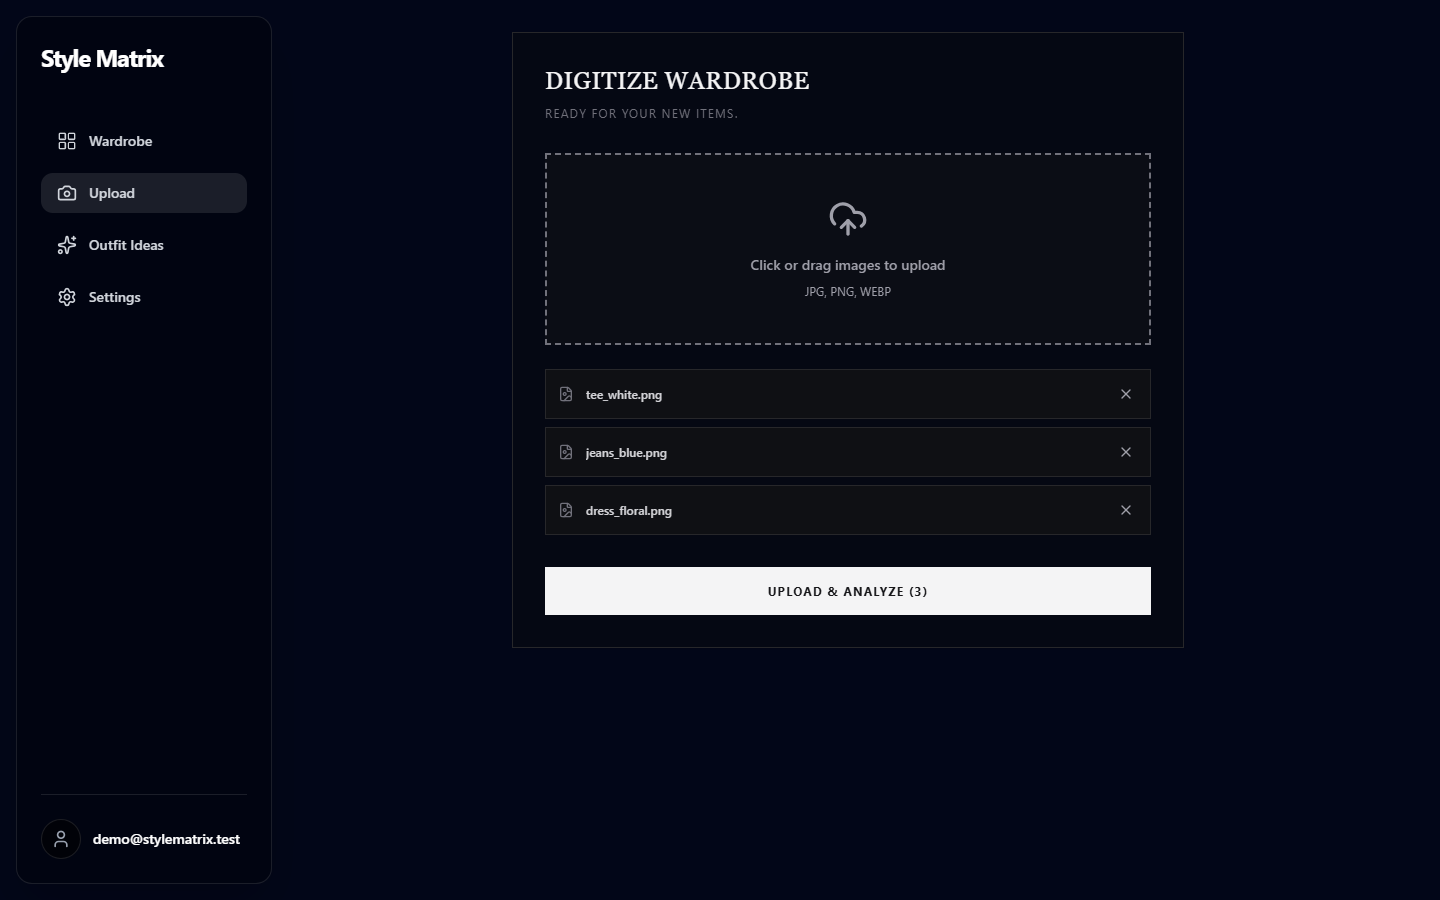
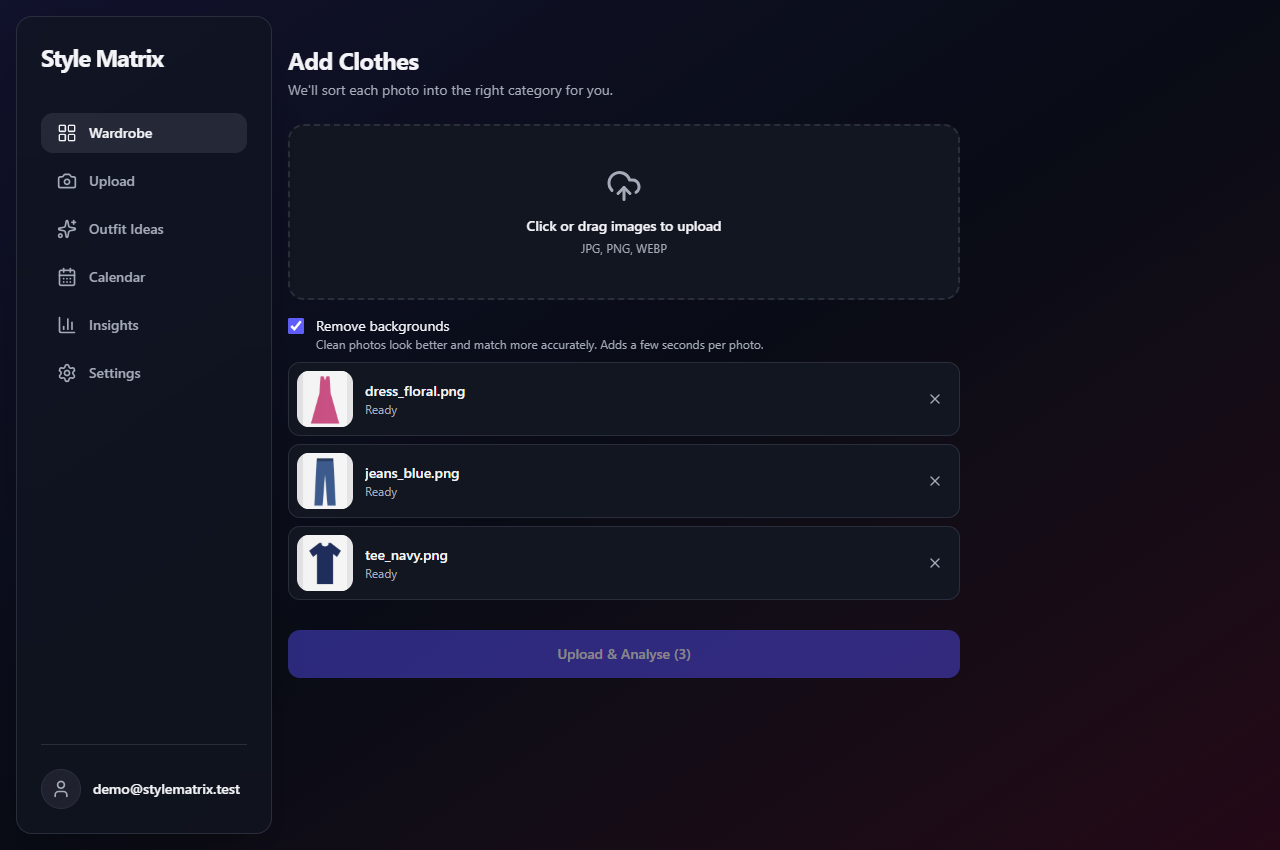
Update the README and screenshots for the new features

diff --git a/README.md b/README.md
@@ -25,11 +25,18 @@
 
 | Feature | What it does |
 |---|---|
-| **Digital wardrobe** | Upload photos in batches, by click or drag and drop. |
-| **Automatic categories** | A ResNet50 classifier sorts each item into one of 50 clothing categories. |
+| **Digital wardrobe** | Upload photos in batches, by click or drag and drop, with a preview and progress for each one. Filter by type, and edit or delete items. |
+| **Background removal** | Removes the background from each photo on upload. It can be switched off, and the original photo is used if it fails. |
+| **Automatic categories** | A ResNet50 classifier sorts clothes into 50 categories, and FashionCLIP picks out shoes and accessories. Any wrong category can be corrected. |
 | **Outfit suggestions** | Describe an occasion or style, and get ranked outfits made from your own clothes. |
+| **Complete outfits** | Adds shoes and an accessory when you own them, and an outer layer when the prompt or weather calls for one. |
 | **Style compatibility** | A trained model scores how well a top and a bottom go together. |
-| **Laundry tracking** | "Wear Today" moves items to *In the Wash* and leaves them out of suggestions for 5 days. |
+| **Weather-aware suggestions** | Uses your current weather from [Open-Meteo](https://open-meteo.com), only after you ask it to. |
+| **Personalised results** | Likes and dislikes change later rankings, and your style profile can influence results. It can be switched off. |
+| **Laundry tracking** | "Wear today" moves items to *In the Wash* and leaves them out of suggestions for 5 days. You can undo it or mark items as washed sooner. |
+| **Outfit calendar** | See what you wore on each day, and keep outfits you like as saved outfits. |
+| **Wardrobe insights** | See your most and least worn clothes, what you never wear, and cost per wear. |
+| **Works on phones** | The sidebar becomes a bottom navigation bar on small screens. |
 | **Accounts and profiles** | Email login and profile settings through Supabase. |
 
 ## Screenshots
@@ -42,13 +49,21 @@ The screenshots use simple drawn sample images, not real clothing photos.
 
 ### Wardrobe
 
-Items appear with their predicted category. The dropdown switches between *Available* and *In the Wash*.
+Items appear with their predicted category. Tabs switch between *Available* and *In the Wash*, and the buttons filter by type.
 
 ![Wardrobe page](docs/images/wardrobe.png)
 
 ### Upload
 
 ![Upload page](docs/images/upload.png)
+
+### Calendar
+
+![Outfit calendar page](docs/images/calendar.png)
+
+### Insights
+
+![Wardrobe insights page](docs/images/insights.png)
 
 ### Profile settings
 
@@ -111,7 +126,7 @@ flowchart LR
 
 ### Adding clothes
 
-The browser uploads photos directly to Supabase Storage, then sends their URLs to the backend. The backend only accepts URLs from the project's own public storage. If some images in a batch can't be read, the rest are still saved.
+The browser sends each photo to the backend to have its background removed, uploads the result to Supabase Storage, then sends its URL to the backend for analysis. The backend only accepts URLs from the project's own public storage. Photos are handled one at a time, so one bad photo doesn't stop the rest. Transparent images are placed on white before analysis, because that's closer to what the models were trained on.
 
 ```mermaid
 sequenceDiagram
@@ -123,6 +138,8 @@ sequenceDiagram
     participant DB as PostgreSQL
 
     User->>FE: Choose photos
+    FE->>API: POST /api/wardrobe/remove-background
+    API-->>FE: Photo without its background
     FE->>S: Upload each photo
     S-->>FE: Public URLs
     FE->>API: POST /api/wardrobe/add-clothing
@@ -139,7 +156,7 @@ sequenceDiagram
 
 ```mermaid
 flowchart TD
-    A[Text prompt] --> B[FashionCLIP turns the<br/>prompt into an embedding]
+    A[Text prompt] --> B[FashionCLIP turns the prompt into an embedding,<br/>leaning 25% towards the weather and profile]
     B --> C{Asks for a dress,<br/>jumpsuit or similar?}
     C -- Yes --> D[Search full-body items]
     C -- No --> E[Search tops and bottoms]
@@ -148,15 +165,21 @@ flowchart TD
     F --> G{Outfit type}
     G -- Top + bottom --> H[60% compatibility model<br/>40% prompt match]
     G -- Full body --> I[Prompt match]
-    H --> J[Return the 5 best outfits]
-    I --> J
+    H --> K[Adjust for past likes and dislikes]
+    I --> K
+    K --> L[Keep the 5 best outfits]
+    L --> J[Add the best shoes and accessory,<br/>and an outer layer if needed]
 ```
 
 Prompt match is the cosine similarity between the prompt and the item, scaled so that 0.4 or above counts as a full match. For a top and bottom pair, the two items' prompt matches are averaged.
 
+A reaction to the same outfit moves its score by 0.2. A new combination moves by up to 0.1, based on how its pieces were received in other outfits. The finishing pieces are added last, so they don't affect the ranking.
+
+An outer layer is added when the prompt suggests one, such as "winter" or "interview", when it's below 15°C, or when it's raining or snowing. The browser rounds your location to about 1 km before asking Open-Meteo for the weather, and your location isn't sent to the backend.
+
 ### Wear tracking
 
-"Wear Today" records today's date on each item. For the next 5 days, the item appears under *In the Wash* and isn't suggested. After that it returns to *Available* automatically.
+"Wear today" records the time on each item and adds the outfit to your calendar. For the next 5 days, the item appears under *In the Wash* and isn't suggested. After that it returns to *Available* automatically, or sooner if you mark it as washed. Undoing a wear restores the item's earlier date, unless it has been washed or worn again since.
 
 ## AI models
 
@@ -165,14 +188,22 @@ Prompt match is the cosine similarity between the prompt and the item, scaled so
 | **ResNet50** | Classify a clothing photo | DeepFashion | 1 of 50 categories | `backend/app/ai/fashion_resnet50.pth` |
 | **FashionCLIP** | Embed images and text in the same space | Pretrained: [`patrickjohncyh/fashion-clip`](https://huggingface.co/patrickjohncyh/fashion-clip) | 512 numbers | Downloaded on first start |
 | **Compatibility model** | Score how well two items go together | Polyvore outfits | Score from 0 to 1 | `backend/data/polyvore/compatibility_model.pth` |
+| **Silueta** | Remove photo backgrounds, through [rembg](https://github.com/danielgatis/rembg) | Pretrained | Photo with a transparent background | Downloaded on first use (44 MB) |
 
 ### Categories
 
-| Slot | Class IDs | Examples |
-|---|---|---|
-| **Top** | 0–19 | Blazer, Hoodie, Sweater, Tee |
-| **Bottom** | 20–35 | Chinos, Jeans, Shorts, Skirt |
-| **Full body** | 36–49 | Coat, Dress, Jumpsuit, Romper |
+IDs 0–49 are the ResNet50's classes. Before using it, FashionCLIP checks whether the photo shows shoes or an accessory, which get IDs 50 and 51.
+
+| Slot | Examples |
+|---|---|
+| **Top** | Blouse, Hoodie, Sweater, Tee |
+| **Layer** | Blazer, Coat, Jacket, Parka |
+| **Bottom** | Chinos, Jeans, Shorts, Skirt |
+| **Full body** | Dress, Jumpsuit, Kimono, Romper |
+| **Shoes** | Shoes |
+| **Accessory** | Bags, belts, hats, jewelry, watches |
+
+The exact IDs for each slot are in `backend/app/outfit_rules.py`.
 
 ### Compatibility model design
 
@@ -194,6 +225,9 @@ flowchart LR
 erDiagram
     USERS ||--o{ CLOTHING_ITEMS : owns
     USERS ||--o{ FEEDBACK : gives
+    USERS ||--o{ WEAR_EVENTS : logs
+    USERS ||--o{ SAVED_OUTFITS : keeps
+    CLOTHING_ITEMS ||--o{ WEAR_EVENTS : "worn in"
 
     USERS {
         int id PK
@@ -204,10 +238,26 @@ erDiagram
         int user_id FK
         string name
         string image_url
-        string category "Class ID 0-49"
+        string category "Class ID 0-51"
         vector embedding "512 numbers"
         datetime last_worn_date
         float score
+        float price
+    }
+    WEAR_EVENTS {
+        int id PK
+        int user_id FK
+        int item_id FK
+        string outfit_key "Shared by items worn together"
+        datetime worn_at
+        datetime previous_last_worn
+    }
+    SAVED_OUTFITS {
+        int id PK
+        int user_id FK
+        string name
+        json item_ids
+        datetime created_at
     }
     FEEDBACK {
         int id PK
@@ -223,7 +273,7 @@ erDiagram
     }
 ```
 
-The `feedback` table is reserved for learning from user feedback, which isn't built yet.
+The `feedback` table stores each like or dislike. Its weather and time columns aren't filled in yet.
 
 ## API reference
 
@@ -231,12 +281,21 @@ Every endpoint needs a Supabase login token in the `Authorization: Bearer <token
 
 | Method | Endpoint | Purpose |
 |---|---|---|
-| `GET` | `/api/wardrobe/items?count=10` | List your clothes, newest first |
+| `GET` | `/api/wardrobe/items` | List your clothes, newest first. Optional: `status`, `slot`, `limit`, `offset` |
+| `PATCH` | `/api/wardrobe/items/{id}` | Change an item's category, name or price |
+| `DELETE` | `/api/wardrobe/items/{id}` | Delete an item |
 | `POST` | `/api/wardrobe/add-clothing` | Add clothes from storage URLs |
-| `POST` | `/api/wardrobe/wear-today` | Mark your items as worn today |
-| `GET` | `/api/recommendation/recommend?prompt=...` | Get outfit suggestions |
+| `POST` | `/api/wardrobe/remove-background` | Send an image, up to 10 MB, and get a PNG back |
+| `POST` | `/api/wardrobe/wear-today` | Mark your items as worn now |
+| `POST` | `/api/wardrobe/undo-wear` | Undo a logged outfit |
+| `POST` | `/api/wardrobe/wash` | Mark your items as washed |
+| `GET` | `/api/wardrobe/history` | Outfits you wore. Optional: `start`, `end`, `limit`, `offset` |
+| `GET` `POST` | `/api/wardrobe/saved-outfits` | List or create saved outfits |
+| `DELETE` | `/api/wardrobe/saved-outfits/{id}` | Delete a saved outfit |
+| `GET` | `/api/wardrobe/insights` | Wardrobe statistics |
+| `POST` | `/api/recommendation/recommend` | Get outfit suggestions |
+| `POST` | `/api/feedback/` | Like or dislike an outfit |
 | `POST` | `/api/user-profile` | Get the profile placeholder |
-| `POST` | `/api/feedback/` | Placeholder that doesn't save yet |
 
 **Example: add clothing**
 
@@ -254,7 +313,19 @@ Response:
 
 **Example: get suggestions**
 
-`GET /api/recommendation/recommend?prompt=casual%20weekend`
+`POST /api/recommendation/recommend`
+
+`weather` and `profile` are optional. They're sent in the request body so that personal details stay out of URLs and server logs.
+
+```json
+{
+  "prompt": "casual weekend",
+  "weather": { "temperature": 8, "condition": "rain" },
+  "profile": { "gender": "female", "body_type": "curvy", "skin_tone": "deep", "height": 155 }
+}
+```
+
+Response:
 
 ```json
 {
@@ -263,7 +334,8 @@ Response:
       "score": 0.47,
       "outfit": {
         "top": { "id": 5, "url": "https://..." },
-        "bottom": { "id": 6, "url": "https://..." }
+        "bottom": { "id": 6, "url": "https://..." },
+        "shoes": { "id": 9, "url": "https://..." }
       }
     }
   ],
@@ -285,11 +357,12 @@ style-matrix/
 │   │   │   └── recommendation/    Compatibility model and training code
 │   │   ├── routes/                API endpoints
 │   │   ├── schemas/               Request and response shapes
+│   │   ├── background.py          Background removal
 │   │   ├── crud.py                Database helpers
 │   │   ├── database.py            Database connection
 │   │   ├── main.py                FastAPI app and CORS
 │   │   ├── models.py              Database tables
-│   │   ├── outfit_rules.py        Outfit slots and prompt routing
+│   │   ├── outfit_rules.py        Outfit slots, layering, hints and feedback rules
 │   │   ├── services.py            Login check and outfit scoring
 │   │   └── util.py                Classification and embeddings
 │   ├── data/polyvore/             Outfit data and model files
@@ -299,8 +372,9 @@ style-matrix/
 │   ├── helper.ts                  Upload helper
 │   └── src/
 │       ├── components/            Pages and UI components
-│       ├── context/               Login state
-│       └── lib/                   Supabase client and category names
+│       ├── context/               Login state and toast messages
+│       ├── hooks/                 API requests
+│       └── lib/                   Supabase client, category names and weather
 └── Dockerfile                     Backend image for deployment
 ```
 
@@ -314,7 +388,7 @@ style-matrix/
 - A [Supabase](https://supabase.com) project with:
   - Email login enabled
   - Asymmetric (ES256) JWT signing keys, because the backend verifies tokens through JWKS
-  - A public storage bucket for clothing photos
+  - A public storage bucket for clothing photos, with a policy that lets logged-in users delete files if photos should be removed along with their items
   - A public storage bucket named `profiles` for avatars
   - The `vector` extension available, which Supabase includes
 
@@ -350,7 +424,7 @@ alembic upgrade head
 uvicorn app.main:app --port 8000
 ```
 
-The first start downloads FashionCLIP from Hugging Face, which can take a few minutes.
+The first start downloads FashionCLIP from Hugging Face, which can take a few minutes. The first background removal downloads its model and sets up its libraries, so that photo takes longer than the rest.
 
 ### 3. Start the frontend
 
@@ -418,6 +492,8 @@ The backend deploys to [Hugging Face Spaces](https://huggingface.co/spaces) as a
 
 Set the backend environment variables on the Space, including `ALLOWED_ORIGINS` with the address of the live frontend.
 
+Run `alembic upgrade head` against the live database when deploying a version with new migrations. The app needs the matching tables to work.
+
 ## Training the models
 
 Pretrained model files come with the repository, so you only need this to retrain them. The training images aren't included, so download these first:
@@ -451,11 +527,13 @@ python train_compatibility_model.py    # Train and save the model
 
 - **Recommendation accuracy:** given an outfit and 4 same-category options, the current compatibility model picks the right item about 58% of the time, against 25% by chance. That's probably optimistic, because `preprocess_items.py` mixes the train, validation and test outfits, and only about 23% of Polyvore items were embedded. A clean retrain is the biggest available improvement.
 - **Tuning:** the 60/40 scoring split and the 0.4 similarity cap are starting values and need testing with real wardrobes.
-- **Outfit slots:** suggestions only cover top + bottom or full-body items. Shoes, outerwear layering and accessories aren't handled.
+- **Shoes and accessories:** the check that recognises them has only been tried on a few simple drawings, so wrong categories may be more common on real photos. They can be corrected on the wardrobe page. Older items keep their existing category.
+- **Influence of weather and profile:** these only nudge the text search, and they're not a fashion rule system. With a small wardrobe they may change the scores without changing the order.
+- **Match percentage:** it's a relative score for comparing outfits, not a calibrated probability.
 - **Full-body items:** they're only suggested when the prompt names one, such as "dress".
 - **Failed uploads:** photos that can't be processed stay in storage.
-- **Mobile:** the layout is designed for desktop screens.
-- **Not built yet:** saving feedback, Google login, and password reset.
+- **Insights:** wears only count from when wear history was added, so earlier wears aren't included.
+- **Not built yet:** retraining from feedback, Google login, and password reset.
 
 ## Contributors
 
